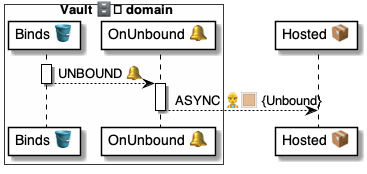
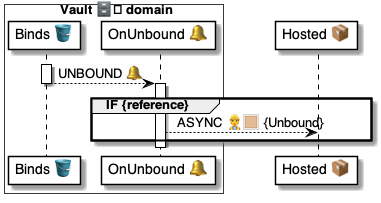
.

diff --git a/4 ⚙ Solution/41 🎭 Domain Roles/Vaults 🗄/🗄🪣 Vault tables/Binds 🔗 table/🪣 Binds/🗄 Vault.Binds 🪣 table.md b/4 ⚙ Solution/41 🎭 Domain Roles/Vaults 🗄/🗄🪣 Vault tables/Binds 🔗 table/🪣 Binds/🗄 Vault.Binds 🪣 table.md
@@ -10,9 +10,9 @@
 | Flow | [State 🛢](<../../../../../30 🧩 Data/Datasets 🪣/🪣🛢 Itemized datasets/Item 🛢 State.md>) | Blame | Description |
 |-|-|-|-
 | [`Bind`](<../🪣🧱 10 Bind ⏩ flow/🗄 Vault.Binds.Bind ⏩ flow.md>) | [`OFFERED`](<../🪣🧱 11 Offered 🔔 event/🗄 OnBindOffered 🔔 handler.md>) |[`BIND` ⌘](<../../../../../37 Scripts 📃/📃 Commands ⌘/⌘ for methods 🤵/BIND 🔗/🔗 BIND 📃 script.md>)| Created but not yet accepted by the user |
-|| `DECLINED` |[`Bound` 🐌 ](<../../../🗄🅰 Vault methods/Bound 🤵🐌🗄/🗄 Bound 📃 handler.md>)| Offered but the user declined it |
+|| [`DECLINED`](<../🪣🧱 12 Declined 🔔 event/🗄 OnBindDeclined 🔔 handler.md>) |[`Bound` 🐌 ](<../../../🗄🅰 Vault methods/Bound 🤵🐌🗄/🗄 Bound 📃 handler.md>)| Offered but the user declined it |
 || [`BOUND`](<../🪣🧱 12 Bound 🔔 event/🗄 OnBindBound 🔔 handler.md>) |[`Bound` 🐌 ](<../../../🗄🅰 Vault methods/Bound 🤵🐌🗄/🗄 Bound 📃 handler.md>)| Active, with the [Vault 🗄 domain](<../../../🗄 Vault/🗄🎭 Vault role.md>) holding it |
-|[`Unbound`](<../🪣🧱 20 Unbind ⏩ flow/🗄 Vault.Binds.Unbound ⏩ flow.md>)| `UNBOUND` |[`Unbound` 🐌](<../../../🗄🅰 Vault methods/Unbound 🤵🐌🗄/🗄 Unbound 📃 handler.md>)| Removed from the [Wallet 🧑🦰 app](<../../../../../20 🧑🦰 UI/Wallets 🧑🦰/🧑🦰 Wallet app/🧑🦰 Wallet 🛠 app.md>) |
+|[`Unbound`](<../🪣🧱 20 Unbind ⏩ flow/🗄 Vault.Binds.Unbound ⏩ flow.md>)| [`UNBOUND`](<../🪣🧱 21 Unbound 🔔 event/🗄 OnBindUnbound 🔔 handler.md>) |[`Unbound` 🐌](<../../../🗄🅰 Vault methods/Unbound 🤵🐌🗄/🗄 Unbound 📃 handler.md>)| Removed from the [Wallet 🧑🦰 app](<../../../../../20 🧑🦰 UI/Wallets 🧑🦰/🧑🦰 Wallet app/🧑🦰 Wallet 🛠 app.md>) |
 |
 
 
@@ -29,25 +29,36 @@ Table: Binds
 Item: Bind
 ```
 
-The [Item 🛢 Handlers](<../../../../../30 🧩 Data/Datasets 🪣/🪣🛢 Itemized datasets/Item 🛢 Handlers.md>) are: [`OnOffered`](<../🪣🧱 11 Offered 🔔 event/🗄 OnBindOffered 🔔 handler.md>) [`OnBound`](<../🪣🧱 12 Bound 🔔 event/🗄 OnBindBound 🔔 handler.md>) [`OnUnbound`](<../🪣🧱 21 Unbound 🔔 event/🗄 OnBindUnbound 🔔 handler.md>)
+The [Item 🛢 Handlers](<../../../../../30 🧩 Data/Datasets 🪣/🪣🛢 Itemized datasets/Item 🛢 Handlers.md>) are: [`OnOffered`](<../🪣🧱 11 Offered 🔔 event/🗄 OnBindOffered 🔔 handler.md>) [`OnBound`](<../🪣🧱 12 Bound 🔔 event/🗄 OnBindBound 🔔 handler.md>) [`OnDeclined`](<../🪣🧱 12 Declined 🔔 event/🗄 OnBindDeclined 🔔 handler.md>) [`OnUnbound`](<../🪣🧱 21 Unbound 🔔 event/🗄 OnBindUnbound 🔔 handler.md>)
 
 ```yaml
 Handlers:
-    OFFERED >> OnBindOffered:   # Calls Bind@Broker
-    BOUND   >> OnBindBound:     # Returns if bound to BIND ⌘
-    UNBOUND >> OnBindUnbound:   # Calls Hosted.Handle(unbound)
+    OFFERED  >> OnBindOffered:   # Calls Bind@Broker
+    BOUND    >> OnBindBound:     # Returns the Bind to BIND ⌘
+    DECLINED >> OnBindDeclined:  # Returns empty to BIND ⌘
+    UNBOUND  >> OnBindUnbound:   # Calls Hosted.Handle(unbound)
 ```
 
 The [Item 🛢 Asserts](<../../../../../30 🧩 Data/Datasets 🪣/🪣🛢 Itemized datasets/Item 🛢 Assert.md>) are:
 
 ```yaml
 Asserts:
+    
+    # Group assertions
     AllOf: Chat, Broker, Schema
     UUIDs: Chat
-    Texts: Broker, Schema
-    Answer.IsIn: ACCEPTED, DECLINED
+    Texts: Broker, Schema, Reference
+    
+    # Field assertions
+    Broker.IsDomain:
+    Schema.IsSchema:
+    
+    # State transitions
     .State.IsIn: OFFERED, DECLINED, BOUND, UNBOUND
 ```
+
+Uses: [`.IsIn`](<../../../../../37 Scripts 📃/📃 Functions 🐍/🐍 System 🔩 functions/IsIn ⓕ.md>) [`.IsDomain`](<../../../../../37 Scripts 📃/📃 Functions 🐍/🐍 System 🔩 functions/IsDomain ⓕ.md>) [`.IsSchema`](<../../../../../37 Scripts 📃/📃 Functions 🐍/🐍 System 🔩 functions/IsSchema ⓕ.md>)
+
 
 <br/>
 
@@ -65,9 +76,6 @@ Broker: any-broker.dom      # Broker owning the Chat
 Schema: .BIND               # Schema offered
 Reference: <reference>      # Hosted domain internal anchor 
 Internals: {...}            # Hosted domain internal data 
-
-# From Bound@Vault
-Answer: ACCEPTED|DECLINED   # User answer to the offer
 ```
 
 | Property | Type | Details | From | Purpose |

diff --git a/4 ⚙ Solution/41 🎭 Domain Roles/Vaults 🗄/🗄🅰 Vault methods/Bound 🤵🐌🗄/🗄 Bound 📃 handler.md b/4 ⚙ Solution/41 🎭 Domain Roles/Vaults 🗄/🗄🅰 Vault methods/Bound 🤵🐌🗄/🗄 Bound 📃 handler.md
@@ -24,22 +24,33 @@
 # Verify the domain signature
 - VERIFY|$.Msg
 
-# Resolve the callback
+# Assert the message
+- ASSERT|$.Msg:
+    AllOf: Bind, Answer
+    Answer.IsIn: ACCEPTED, DECLINED
+
+# Get the Bind
 - READ >> $bind:
     Set: Vault.Binds
-    Key: $.Msg.Offer
+    Key: $.Msg.Bind
     Assert: 
         Broker: $.Msg.From
+        .State: OFFERED
 
 # Save the Bind
-- SAVE|$bind:
-    .State: BOUND
+- CASE|$.Msg.Answer:
+    ACCEPTED: 
+        SAVE|$bind:
+            .State: BOUND
+    DECLINED:
+        SAVE|$bind:
+            .State: DECLINED
 ```
 
 Uses||
 |-|-
-| [Commands ⌘](<../../../../35 💬 Chats/Scripts 📃/Command ⌘.md>) |  [`ASSERT`](<../../../../37 Scripts 📃/📃 Commands ⌘/⌘ for holders 🧠/ASSERT 🚦/🚦 ASSERT ⌘ cmd.md>) [`READ`](<../../../../37 Scripts 📃/📃 Commands ⌘/⌘ for datasets 🪣/READ 🧲/🧲 READ ⌘ cmd.md>)  [`REEL`](<../../../../37 Scripts 📃/📃 Commands ⌘/⌘ for async/REEL 🎣/🎣 REEL ⌘ cmd.md>) [`VERIFY`](<../../../../37 Scripts 📃/📃 Commands ⌘/⌘ for messages 📨/VERIFY 🔐/🔐 VERIFY ⌘ cmd.md>)
-| [Datasets 🪣](<../../../../30 🧩 Data/Datasets 🪣/🪣 Dataset.md>) | [`Talker.Hooks`](<../../../../35 💬 Chats/Talkers 😃/😃🪣 Talker tables/😃 Talker.Hooks 🪣 table.md>) [`Vault.Binds`](<../../🗄🪣 Vault tables/Binds 🔗 table/🪣 Binds/🗄 Vault.Binds 🪣 table.md>)
+| [Commands ⌘](<../../../../35 💬 Chats/Scripts 📃/Command ⌘.md>) |  [`ASSERT`](<../../../../37 Scripts 📃/📃 Commands ⌘/⌘ for holders 🧠/ASSERT 🚦/🚦 ASSERT ⌘ cmd.md>) [`READ`](<../../../../37 Scripts 📃/📃 Commands ⌘/⌘ for datasets 🪣/READ 🧲/🧲 READ ⌘ cmd.md>)  [`SAVE`](<../../../../37 Scripts 📃/📃 Commands ⌘/⌘ for datasets 🪣/SAVE 💾/💾 SAVE ⌘ cmd.md>) [`VERIFY`](<../../../../37 Scripts 📃/📃 Commands ⌘/⌘ for messages 📨/VERIFY 🔐/🔐 VERIFY ⌘ cmd.md>)
+| [Datasets 🪣](<../../../../30 🧩 Data/Datasets 🪣/🪣 Dataset.md>) | [`Vault.Binds`](<../../🗄🪣 Vault tables/Binds 🔗 table/🪣 Binds/🗄 Vault.Binds 🪣 table.md>)
 | [Holders 🧠](<../../../../35 💬 Chats/Scripts 📃/Holder 🧠.md>) | [`$.Msg`](<../../../../37 Scripts 📃/📃 Holders 🧠/System holders 🔩/$.Msg 📨/📨 $.Msg 🧠 holder.md>)
 |
 

diff --git a/4 ⚙ Solution/41 🎭 Domain Roles/Vaults 🗄/🗄🪣 Vault tables/Binds 🔗 table/🪣🧱 12 Bound 🔔 event/🗄 OnBindBound 🔔 handler.md b/4 ⚙ Solution/41 🎭 Domain Roles/Vaults 🗄/🗄🪣 Vault tables/Binds 🔗 table/🪣🧱 12 Bound 🔔 event/🗄 OnBindBound 🔔 handler.md
@@ -1,6 +1,8 @@
 # 🗄 OnBindBound 📃 handler
 
-> Purpose
+> About
+* Part of the [`Vault.Binds` 🪣 table](<../🪣 Binds/🗄 Vault.Binds 🪣 table.md>)
+* Part of the [🗄 `Vault.Binds.Bind` ⏩ flow](<../🪣🧱 10 Bind ⏩ flow/🗄 Vault.Binds.Bind ⏩ flow.md>)
 * [Script 📃](<../../../../../35 💬 Chats/Scripts 📃/Script 📃.md>) that reacts to the [`Bound@Vault` 🅰 method](<../../../🗄🅰 Vault methods/Bound 🤵🐌🗄/🗄 Bound 🐌 msg.md>).
 * Returns a [Bind 🔗](<../../../../../30 🧩 Data/Binds 🔗/🔗 Bind.md>) item to the [`BIND`](<../../../../../37 Scripts 📃/📃 Commands ⌘/⌘ for methods 🤵/BIND 🔗/🔗 BIND ⌘ cmd.md>) command.
  
@@ -17,23 +19,19 @@
 ```yaml
 📃 OnBindBound:
 
-# Assert the inputs
-- ASSERT|$Bind:
-    AllOf: Answer
-    Answer.IsIn: ACCEPTED, DECLINED
+# Inform the Hosted if there's a reference
+- IF|$Bind.Reference:
+    ASYNC|OnBound:
+        Bind: $Bind.ID
+        Reference: $Bind.Reference
+        Internals: $Bind.Internals
 
-# Return the call
-- CASE|$Bind.Answer:
-
-    ACCEPTED: # Return the Bind if accepted
-        REEL|$Bind.ID:
-            $Bind
-
-    DECLINED: # Return empty if declined
-        REEL|$Bind.ID
+# Return the bind
+- REEL|$Bind.ID:
+    $Bind
 ```
 
 Uses||
 |-|-
-| [Commands ⌘](<../../../../../35 💬 Chats/Scripts 📃/Command ⌘.md>) | [`ASSERT`](<../../../../../37 Scripts 📃/📃 Commands ⌘/⌘ for holders 🧠/ASSERT 🚦/🚦 ASSERT ⌘ cmd.md>) [`CASE`](<../../../../../37 Scripts 📃/📃 Commands ⌘/⌘ for control ▶/CASE ⏯/⏯ CASE ⌘ cmd.md>) [`REEL`](<../../../../../37 Scripts 📃/📃 Commands ⌘/⌘ for async/REEL 🎣/🎣 REEL ⌘ cmd.md>)
+| [Commands ⌘](<../../../../../35 💬 Chats/Scripts 📃/Command ⌘.md>) | [`ASYNC`](<../../../../../37 Scripts 📃/📃 Commands ⌘/⌘ for async/ASYNC 👷🏼/👷🏼 ASYNC ⌘ cmd.md>) [`IF`](<../../../../../37 Scripts 📃/📃 Commands ⌘/⌘ for control ▶/IF ⤵/⤵ IF ⌘ cmd.md>) [`REEL`](<../../../../../37 Scripts 📃/📃 Commands ⌘/⌘ for async/REEL 🎣/🎣 REEL ⌘ cmd.md>)
 |

diff --git a/4 ⚙ Solution/41 🎭 Domain Roles/Vaults 🗄/🗄🪣 Vault tables/Binds 🔗 table/🪣🧱 12 Declined 🔔 event/🗄 OnBindDeclined 🔔 handler.md b/4 ⚙ Solution/41 🎭 Domain Roles/Vaults 🗄/🗄🪣 Vault tables/Binds 🔗 table/🪣🧱 12 Declined 🔔 event/🗄 OnBindDeclined 🔔 handler.md
@@ -1,0 +1,28 @@
+# 🗄 OnBindDeclined 🔔 handler
+
+> Purpose
+* Part of the [`Vault.Binds` 🪣 table](<../🪣 Binds/🗄 Vault.Binds 🪣 table.md>)
+* Part of the [🗄 `Vault.Binds.Bind` ⏩ flow](<../🪣🧱 10 Bind ⏩ flow/🗄 Vault.Binds.Bind ⏩ flow.md>)
+* [Script 📃](<../../../../../35 💬 Chats/Scripts 📃/Script 📃.md>) that reacts to the [`Bound@Vault` 🅰 method](<../../../🗄🅰 Vault methods/Bound 🤵🐌🗄/🗄 Bound 🐌 msg.md>).
+ 
+<br/>
+
+## Diagram
+
+![alt text](<🗄 OnBindDeclined ⚙ uml.png>)
+
+<br/>
+
+## Script
+
+```yaml
+📃 OnBindDeclined:
+
+# Return empty if declined
+- REEL|$Bind.ID
+```
+
+Uses||
+|-|-
+| [Commands ⌘](<../../../../../35 💬 Chats/Scripts 📃/Command ⌘.md>) |  [`REEL`](<../../../../../37 Scripts 📃/📃 Commands ⌘/⌘ for async/REEL 🎣/🎣 REEL ⌘ cmd.md>)
+|

diff --git a/4 ⚙ Solution/41 🎭 Domain Roles/Vaults 🗄/🗄🪣 Vault tables/Binds 🔗 table/🪣🧱 21 Unbound 🔔 event/🗄 OnBindUnbound 🔔 handler.md b/4 ⚙ Solution/41 🎭 Domain Roles/Vaults 🗄/🗄🪣 Vault tables/Binds 🔗 table/🪣🧱 21 Unbound 🔔 event/🗄 OnBindUnbound 🔔 handler.md
@@ -2,6 +2,7 @@
 
 > About
 * Part of the [`Vault.Binds` 🪣 table](<../🪣 Binds/🗄 Vault.Binds 🪣 table.md>)
+* Part of the [🗄 `Vault.Binds.Unbound` ⏩ flow](<../🪣🧱 20 Unbind ⏩ flow/🗄 Vault.Binds.Unbound ⏩ flow.md>)
 * Reacts to the [`Unbound@Vault` 🅰 method](<../../../🗄🅰 Vault methods/Unbound 🤵🐌🗄/🗄 Unbound 🐌 msg.md>)
 
 <br/>
@@ -17,13 +18,10 @@
 ```yaml
 📃 OnBindUnbound:
 
-# Assert the Bind
-- ASSERT|$Bind:
-    AllOf: ID, Vault, VaultRole, VaultID, Chat, Schema, Created
-    UUIDs: ID, VaultID, Chat
-    Texts: Vault, VaultRole, Schema
-    Times: Created
-
-# Return empty to the REEL call
-- REEL|$Bind.ID
+# Inform the Hosted if there's a reference
+- IF|$Bind.Reference:
+    ASYNC|OnUnbound:
+        Bind: $Bind.ID
+        Reference: $Bind.Reference
+        Internals: $Bind.Internals
 ```

diff --git a/4 ⚙ Solution/41 🎭 Domain Roles/Vaults 🗄/🗄🪣 Vault tables/Binds 🔗 table/🪣🧱 11 Offered 🔔 event/🗄 OnBindOffered 🔔 handler.md b/4 ⚙ Solution/41 🎭 Domain Roles/Vaults 🗄/🗄🪣 Vault tables/Binds 🔗 table/🪣🧱 11 Offered 🔔 event/🗄 OnBindOffered 🔔 handler.md
@@ -5,6 +5,9 @@
     * that reacts to the [`BIND` command](<../../../../../37 Scripts 📃/📃 Commands ⌘/⌘ for methods 🤵/BIND 🔗/🔗 BIND ⌘ cmd.md>), 
     * which is implemented by the [`BIND` 📃 script](<../../../../../37 Scripts 📃/📃 Commands ⌘/⌘ for methods 🤵/BIND 🔗/🔗 BIND 📃 script.md>).
 * Part of the [Vault 🗄 domain](<../../../🗄 Vault/🗄🎭 Vault role.md>)
+* Part of the [🗄 `Vault.Binds.Bind` ⏩ flow](<../🪣🧱 10 Bind ⏩ flow/🗄 Vault.Binds.Bind ⏩ flow.md>)
+
+
 
 <br/>
 

diff --git a/4 ⚙ Solution/41 🎭 Domain Roles/Vaults 🗄/🗄🪣 Vault tables/Binds 🔗 table/🪣🧱 20 Unbind ⏩ flow/🗄 Vault.Binds.Unbound ⏩ flow.md b/4 ⚙ Solution/41 🎭 Domain Roles/Vaults 🗄/🗄🪣 Vault tables/Binds 🔗 table/🪣🧱 20 Unbind ⏩ flow/🗄 Vault.Binds.Unbound ⏩ flow.md
@@ -1,1 +1,10 @@
 # 🗄 Vault.Binds.Unbound ⏩ flow
+
+> About
+* Part of the [`Vault.Binds` 🪣 table](<../🪣 Binds/🗄 Vault.Binds 🪣 table.md>)
+
+<br/>
+
+## Diagram
+
+![alt text](<🗄 Vault.Binds.Unbind ⚙ uml.png>)

diff --git a/4 ⚙ Solution/41 🎭 Domain Roles/Vaults 🗄/🗄🪣 Vault tables/Binds 🔗 table/🪣🧱 10 Bind ⏩ flow/🗄 Vault.Binds.Bind ⏩ flow.md b/4 ⚙ Solution/41 🎭 Domain Roles/Vaults 🗄/🗄🪣 Vault tables/Binds 🔗 table/🪣🧱 10 Bind ⏩ flow/🗄 Vault.Binds.Bind ⏩ flow.md
@@ -1,1 +1,10 @@
 # 🗄 Vault.Binds.Bind ⏩ flow
+
+> About
+* Part of the [`Vault.Binds` 🪣 table](<../🪣 Binds/🗄 Vault.Binds 🪣 table.md>)
+
+<br/>
+
+## Diagram
+
+![alt text](<🗄 Vault.Binds.Bind ⚙ uml.png>)
